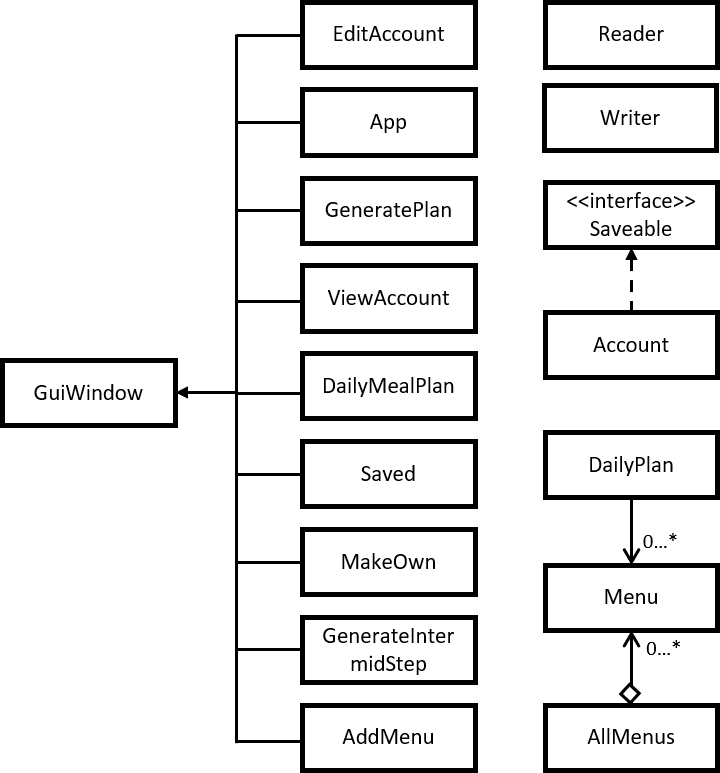
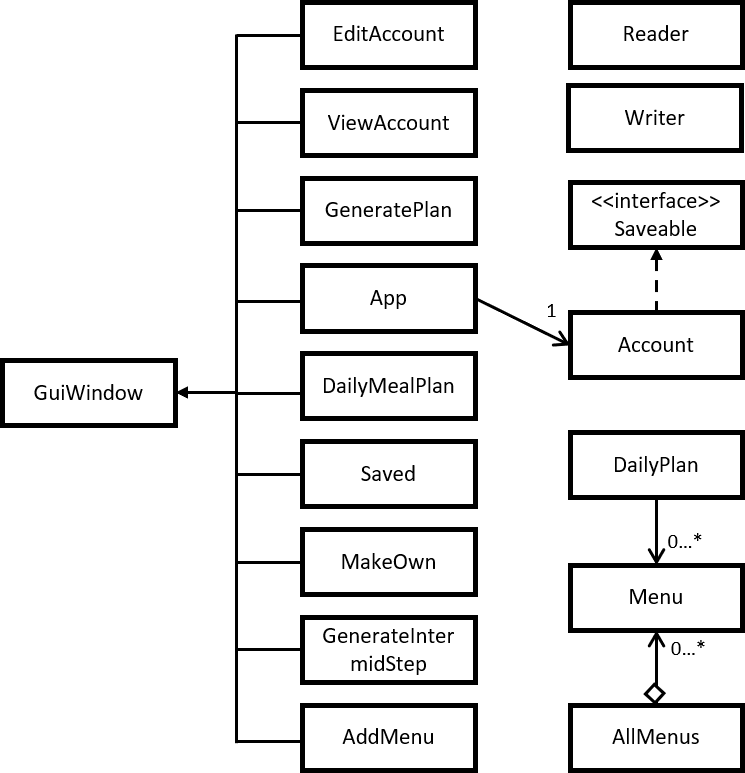
Phase 4: Edited UML diagram.

diff --git a/src/main/ui/App.java b/src/main/ui/App.java
@@ -1,6 +1,7 @@
 package ui;
 
 import model.Account;
+import model.DailyPlan;
 import persistence.Writer;
 
 import javax.swing.*;
@@ -113,6 +114,7 @@ public class App extends GuiWindow {
     // Open the app.
     public static void main(String[] args) {
         frame = new JFrame("Project_k3x2b");
+        new DailyPlan();
 
         new App();
     }

diff --git a/src/main/ui/AddMenu.java b/src/main/ui/AddMenu.java
@@ -21,7 +21,7 @@ public class AddMenu extends GuiWindow {
     private JTextField veggie;
     private JButton doneButton;
     private JButton backButton;
-    protected Menu menu;
+
 
     // EFFECTS: set up a window where the specifics of the menu will be written
     public AddMenu() {

diff --git a/src/main/model/DailyPlan.java b/src/main/model/DailyPlan.java
@@ -13,6 +13,7 @@ public class DailyPlan {
     // EFFECTS: constructs an empty daily plan
     public DailyPlan() {
         //construct an empty daily plan
+        dailyPlan = new ArrayList<>();
     }
 
     // MODIFIES: this
